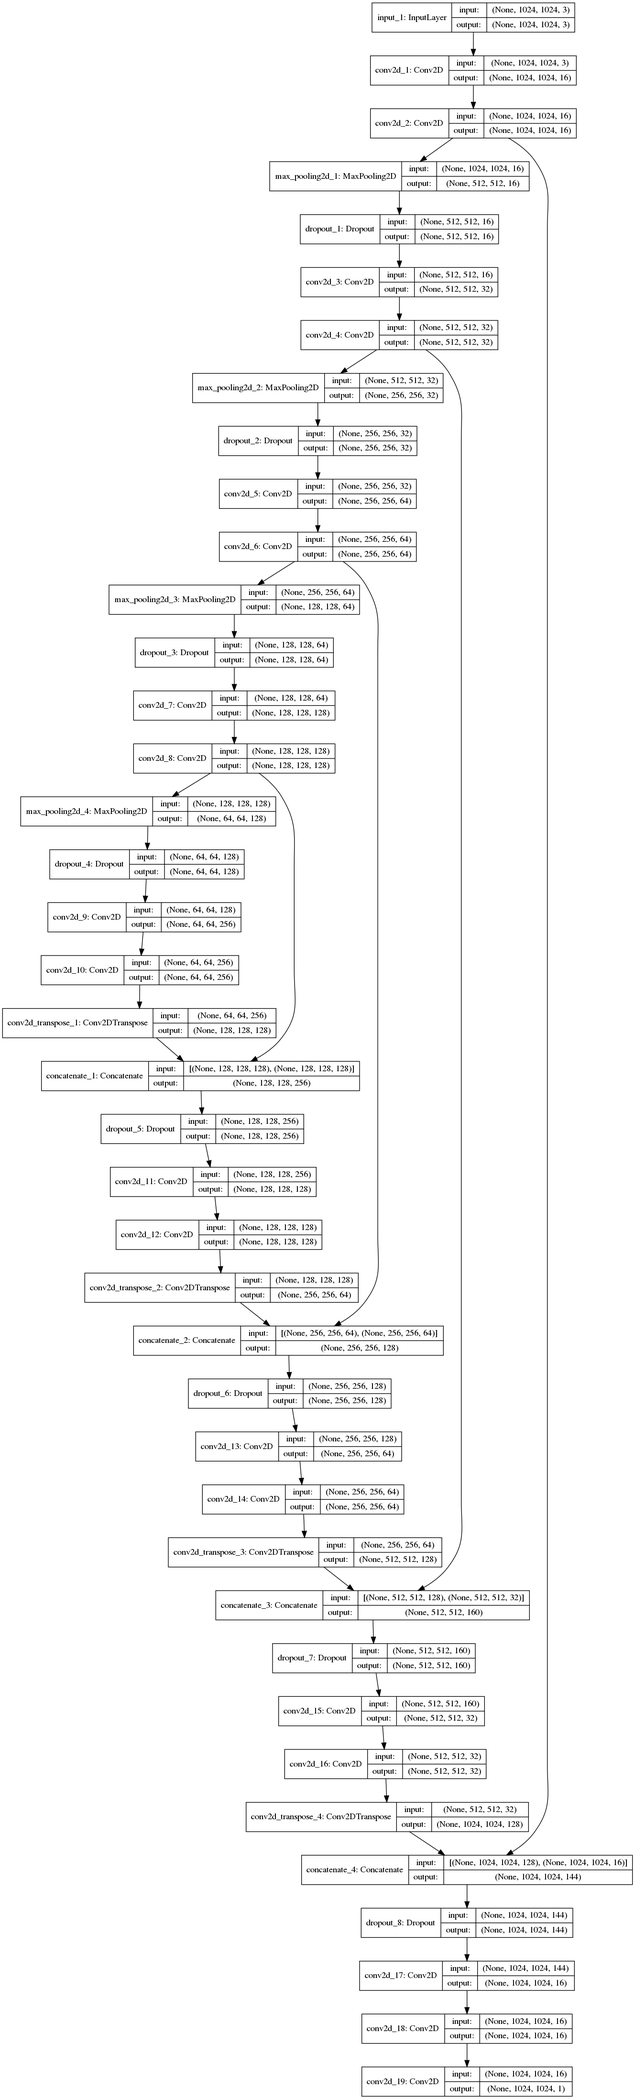
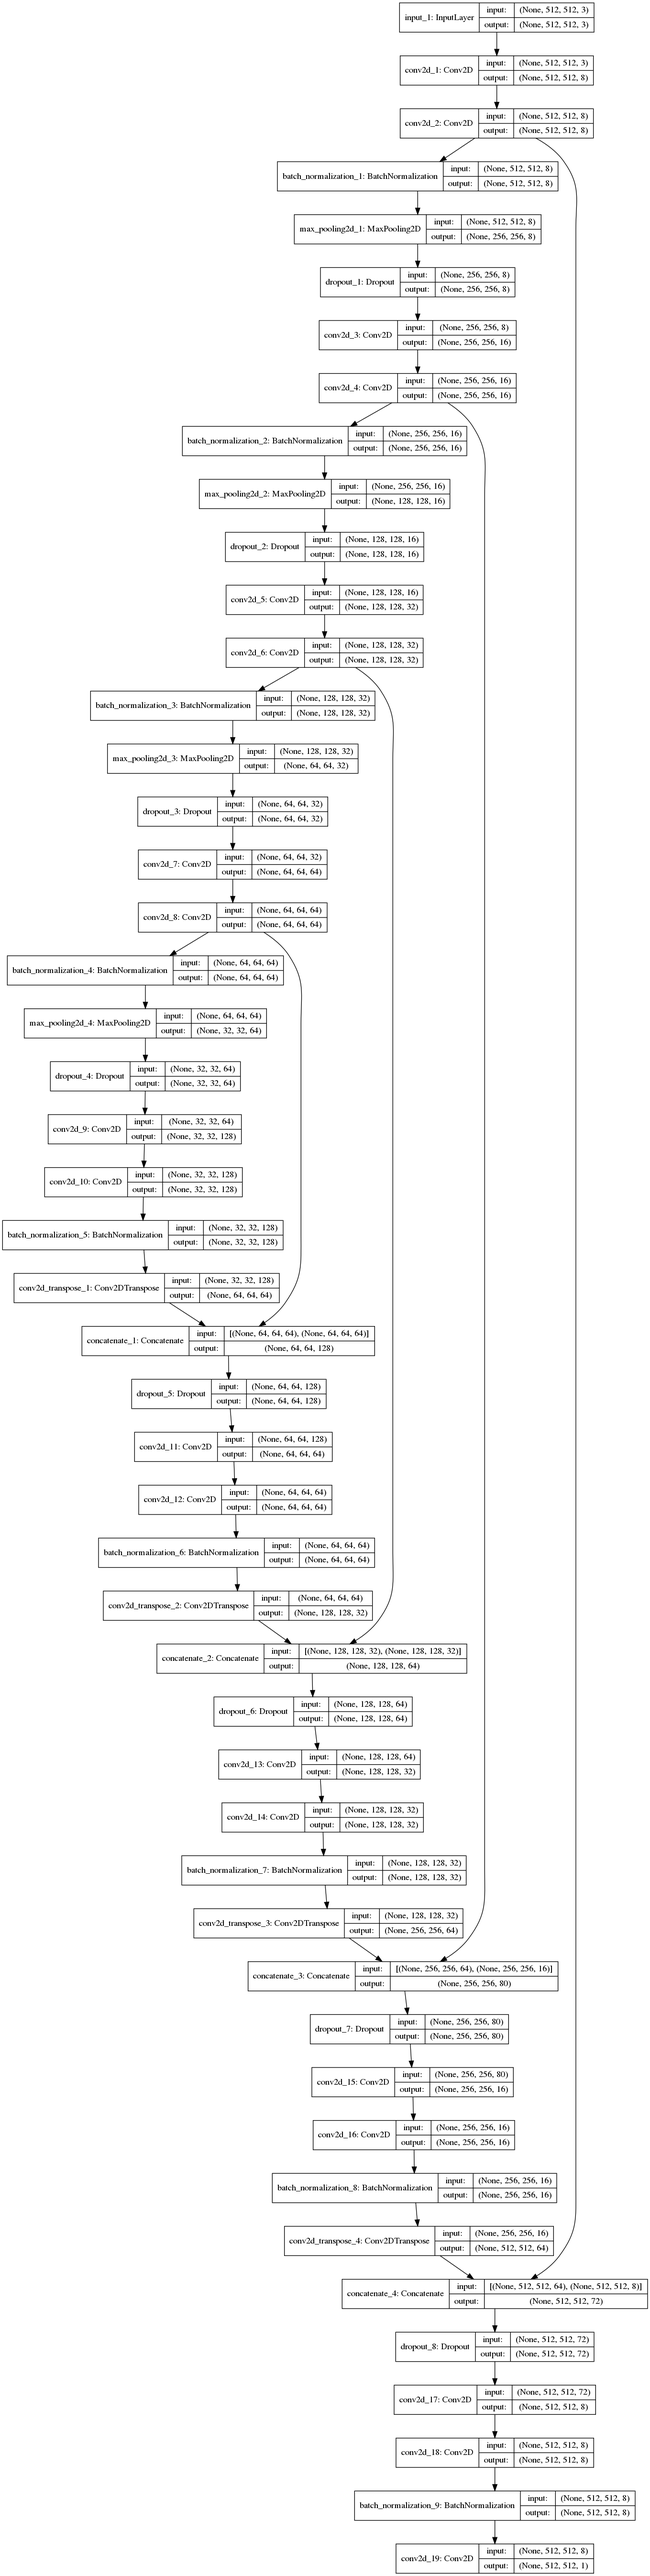
added dice and jaccard coeff

Changed region(s): [[0.0, 0.0, 1.0, 1.0]]

diff --git a/model.py b/model.py
@@ -4,21 +4,42 @@ np.random.seed(42)
 import os
 import cv2
 import pandas as pd
+from models import unet
 import tifffile as tiff
+import keras.backend as K
 from generator import generator
 import matplotlib.pyplot as plt
 from keras.optimizers import Adam
 from keras.utils import plot_model
+from keras.models import load_model
 from utils import get_rgb_img, get_mask
-from keras.models import load_model, Model
+from keras.losses import binary_crossentropy
 from keras.callbacks import TensorBoard, ModelCheckpoint
-from keras.layers import BatchNormalization, Dropout, Concatenate
-from keras.layers import Conv2D, MaxPool2D, Input, Conv2DTranspose, Add
 
 def get_epoch_len(lbl, polygon_path):
     df = pd.read_csv(polygon_path)
     df = df[df['ClassType'] == lbl]
     return len(df)
+
+def jaccard_coef(y_true, y_pred, epsilon = 1e-6):
+    axes = tuple(range(1, len(y_pred.shape)-1))
+
+    num = K.sum(y_pred * y_true, axes)
+    denum = K.sum(y_true + y_pred - y_pred * y_true)
+
+    return K.mean(num / (denum + epsilon))
+
+def dice_coef(y_true, y_pred, epsilon = 1e-6):
+    axes = tuple(range(1, len(y_pred.shape)-1))
+
+    num = 2. * K.sum(y_pred * y_true, axes)
+    denum = K.sum(K.square(y_pred) + K.square(y_true), axes)
+
+    return 1 - K.mean(num / (denum + epsilon))
+
+def loss(y_true, y_pred):
+    #return binary_crossentropy(y_true, y_pred) - K.log(jaccard_coef(y_true, y_pred))
+    return dice_coef(y_true, y_pred) + binary_crossentropy(y_true, y_pred)
 
 class network:
     def __init__(self, model_path = None, input_shape = 1024):
@@ -28,64 +49,10 @@ class network:
         if model_path == None:
             self.model = self.create_model()
         else:
-            self.model = load_model(model_path)
+            self.model = load_model(model_path, custom_objects = {'dice_coef' : dice_coef, 'loss' : loss , 'jaccard_coef' : jaccard_coef})
 
     def create_model(self):
-
-        input = Input(shape = self.input_shape)
-        filters = 16
-        #encoder
-        conv_1 = Conv2D(filters, (3, 3), padding = 'same', activation = 'relu')(input)
-        conv_2 = Conv2D(filters, (3, 3), padding = 'same', activation = 'relu')(conv_1)
-        pool_1 = MaxPool2D((2, 2))(conv_2)
-        drop_1 = Dropout(0.5)(pool_1)
-
-        conv_3 = Conv2D(filters * 2, (3, 3), padding = 'same', activation = 'relu')(drop_1)
-        conv_4 = Conv2D(filters * 2, (3, 3), padding = 'same', activation = 'relu')(conv_3)
-        pool_2 = MaxPool2D((2, 2))(conv_4)
-        drop_2 = Dropout(0.5)(pool_2)
-
-        conv_5 = Conv2D(filters * 4, (3, 3), padding = 'same', activation = 'relu')(drop_2)
-        conv_6 = Conv2D(filters * 4, (3, 3), padding = 'same', activation = 'relu')(conv_5)
-        pool_3 = MaxPool2D((2, 2))(conv_6)
-        drop_3 = Dropout(0.5)(pool_3)
-
-        conv_7 = Conv2D(filters * 8, (3, 3), padding = 'same', activation = 'relu')(drop_3)
-        conv_8 = Conv2D(filters * 8, (3, 3), padding = 'same', activation = 'relu')(conv_7)
-        pool_4 = MaxPool2D((2, 2))(conv_8)
-        drop_4 = Dropout(0.5)(pool_4)
-
-        #bridge
-        conv_b1 = Conv2D(filters * 16, (3, 3), padding = 'same', activation = 'relu')(drop_4)
-        conv_b2 = Conv2D(filters * 16, (3, 3), padding = 'same', activation = 'relu')(conv_b1)
-
-        #decoder
-        upsm_1 = Conv2DTranspose(filters * 8, (3, 3), strides = (2, 2), padding = 'same')(conv_b2)
-        concat_3 = Concatenate()([upsm_1, conv_8])
-        drop_5 = Dropout(0.5)(concat_3)
-        conv_9 = Conv2D(filters * 8, (3, 3), padding = 'same', activation = 'relu')(drop_5)
-        conv_10 = Conv2D(filters * 8, (3, 3), padding = 'same', activation = 'relu')(conv_9)
-
-        upsm_2 = Conv2DTranspose(filters * 4, (3, 3), strides = (2, 2), padding = 'same')(conv_10)
-        concat_4 = Concatenate()([upsm_2, conv_6])
-        drop_6 = Dropout(0.5)(concat_4)
-        conv_11 = Conv2D(filters * 4, (3, 3), padding = 'same', activation = 'relu')(drop_6)
-        conv_12 = Conv2D(filters * 4, (3, 3), padding = 'same', activation = 'relu')(conv_11)
-
-        upsm_3 = Conv2DTranspose(filters * 8, (3, 3), strides = (2, 2), padding = 'same')(conv_12)
-        concat_5 = Concatenate()([upsm_3, conv_4])
-        drop_7 = Dropout(0.5)(concat_5)
-        conv_13 = Conv2D(filters * 2, (3, 3), padding = 'same', activation = 'relu')(drop_7)
-        conv_14 = Conv2D(filters * 2, (3, 3), padding = 'same', activation = 'relu')(conv_13)
-
-        upsm_4 = Conv2DTranspose(filters * 8, (3, 3), strides = (2, 2), padding = 'same')(conv_14)
-        concat_6 = Concatenate()([upsm_4, conv_2])
-        drop_8 = Dropout(0.5)(concat_6)
-        conv_15 = Conv2D(filters * 1, (3, 3), padding = 'same', activation = 'relu')(drop_8)
-        conv_16 = Conv2D(filters * 1, (3, 3), padding = 'same', activation = 'relu')(conv_15)
-        output = Conv2D(1, (1, 1), padding = 'same', activation = 'sigmoid')(conv_16)
-
-        net = Model(input, output)
+        net = unet.get_model(self.input_shape)
         net.summary()
         plot_model(net, 'model.png', show_shapes = True)
 
@@ -95,7 +62,7 @@ class network:
 
         train_gen = generator(lbl, img_path = train_path, polygon_path = polygon_path, scaler_path = scaler_path, bs = int(bs), input_shape = self.input_shape)
 
-        self.model.compile(loss = 'binary_crossentropy', optimizer = Adam(lr = lr, decay = lr // epochs), metrics = ['mae'])
+        self.model.compile(loss = dice_coef, optimizer = Adam(lr = lr, decay = lr // epochs), metrics = ['binary_crossentropy', dice_coef, jaccard_coef])
         #self.model.compile(loss = 'mae', optimizer = 'adadelta', metrics = ['mse'])
         #self.model.compile(loss = 'mae', optimizer = RAdam(), metrics = ['mse'])
 

diff --git a/models/unet.py b/models/unet.py
@@ -1,0 +1,70 @@
+from keras.models import Model
+from keras.layers import BatchNormalization, Dropout, Concatenate
+from keras.layers import Conv2D, MaxPool2D, Input, Conv2DTranspose, Add
+
+def get_model(input_shape):
+    input = Input(shape = input_shape)
+    filters = 8
+    #encoder
+    conv_1 = Conv2D(filters, (3, 3), padding = 'same', activation = 'relu')(input)
+    conv_2 = Conv2D(filters, (3, 3), padding = 'same', activation = 'relu')(conv_1)
+    BN1 = BatchNormalization()(conv_2)
+    pool_1 = MaxPool2D((2, 2))(BN1)
+    drop_1 = Dropout(0.25)(pool_1)
+
+    conv_3 = Conv2D(filters * 2, (3, 3), padding = 'same', activation = 'relu')(drop_1)
+    conv_4 = Conv2D(filters * 2, (3, 3), padding = 'same', activation = 'relu')(conv_3)
+    BN2 = BatchNormalization()(conv_4)
+    pool_2 = MaxPool2D((2, 2))(BN2)
+    drop_2 = Dropout(0.25)(pool_2)
+
+    conv_5 = Conv2D(filters * 4, (3, 3), padding = 'same', activation = 'relu')(drop_2)
+    conv_6 = Conv2D(filters * 4, (3, 3), padding = 'same', activation = 'relu')(conv_5)
+    BN3 = BatchNormalization()(conv_6)
+    pool_3 = MaxPool2D((2, 2))(BN3)
+    drop_3 = Dropout(0.25)(pool_3)
+
+    conv_7 = Conv2D(filters * 8, (3, 3), padding = 'same', activation = 'relu')(drop_3)
+    conv_8 = Conv2D(filters * 8, (3, 3), padding = 'same', activation = 'relu')(conv_7)
+    BN4 = BatchNormalization()(conv_8)
+    pool_4 = MaxPool2D((2, 2))(BN4)
+    drop_4 = Dropout(0.25)(pool_4)
+
+    #bridge
+    conv_b1 = Conv2D(filters * 16, (3, 3), padding = 'same', activation = 'relu')(drop_4)
+    conv_b2 = Conv2D(filters * 16, (3, 3), padding = 'same', activation = 'relu')(conv_b1)
+    BN5 = BatchNormalization()(conv_b2)
+
+    #decoder
+    upsm_1 = Conv2DTranspose(filters * 8, (3, 3), strides = (2, 2), padding = 'same')(BN5)
+    concat_3 = Concatenate()([upsm_1, conv_8])
+    drop_5 = Dropout(0.5)(concat_3)
+    conv_9 = Conv2D(filters * 8, (3, 3), padding = 'same', activation = 'relu')(drop_5)
+    conv_10 = Conv2D(filters * 8, (3, 3), padding = 'same', activation = 'relu')(conv_9)
+    BN6 = BatchNormalization()(conv_10)
+
+    upsm_2 = Conv2DTranspose(filters * 4, (3, 3), strides = (2, 2), padding = 'same')(BN6)
+    concat_4 = Concatenate()([upsm_2, conv_6])
+    drop_6 = Dropout(0.5)(concat_4)
+    conv_11 = Conv2D(filters * 4, (3, 3), padding = 'same', activation = 'relu')(drop_6)
+    conv_12 = Conv2D(filters * 4, (3, 3), padding = 'same', activation = 'relu')(conv_11)
+    BN7 = BatchNormalization()(conv_12)
+
+    upsm_3 = Conv2DTranspose(filters * 8, (3, 3), strides = (2, 2), padding = 'same')(BN7)
+    concat_5 = Concatenate()([upsm_3, conv_4])
+    drop_7 = Dropout(0.5)(concat_5)
+    conv_13 = Conv2D(filters * 2, (3, 3), padding = 'same', activation = 'relu')(drop_7)
+    conv_14 = Conv2D(filters * 2, (3, 3), padding = 'same', activation = 'relu')(conv_13)
+    BN8 = BatchNormalization()(conv_14)
+
+    upsm_4 = Conv2DTranspose(filters * 8, (3, 3), strides = (2, 2), padding = 'same')(BN8)
+    concat_6 = Concatenate()([upsm_4, conv_2])
+    drop_8 = Dropout(0.5)(concat_6)
+    conv_15 = Conv2D(filters * 1, (3, 3), padding = 'same', activation = 'relu')(drop_8)
+    conv_16 = Conv2D(filters * 1, (3, 3), padding = 'same', activation = 'relu')(conv_15)
+    BN9 = BatchNormalization()(conv_16)
+
+    output = Conv2D(1, (1, 1), padding = 'same', activation = 'sigmoid')(BN9)
+
+    net = Model(input, output)
+    return net

diff --git a/op_to_poly.py b/op_to_poly.py
@@ -1,0 +1,44 @@
+import cv2
+import numpy as np
+from collections import defaultdict
+from shapely.geometry import MultiPolygon, Polygon
+
+def poly_from_mask(mask, epsilon = 10.0, min_area = 10.0):
+
+    contours, hierarchy = cv2.findContours(((mask == 1) * 255).astype(np.uint8), cv2.RETR_CCOMP, cv2.CHAIN_APPROX_TC89_KCOS)
+    approx_contours = [cv2.approxPolyDP(cnt, epsilon, True) for cnt in contours]
+
+    if not contours:
+        return MultiPolygon()
+
+    cnt_children = defaultdict(list)
+    child_contours = set()
+    assert hierarchy.shape[0] == 1
+
+    for idx, (_, _, _, parent_idx) in enumerate(hierarchy[0]):
+        if parent_idx != -1:
+            child_contours.add(idx)
+            cnt_children[parent_idx].append(approx_contours[idx])
+
+    all_polygons = []
+    for idx, cnt in enumerate(approx_contours):
+        if idx not in child_contours and cv2.contourArea(cnt) >= min_area:
+            assert cnt.shape[1] == 1
+            poly = Polygon(
+                shell=cnt[:, 0, :],
+                holes=[c[:, 0, :] for c in cnt_children.get(idx, [])
+                       if cv2.contourArea(c) >= min_area])
+            all_polygons.append(poly)
+
+    all_polygons = MultiPolygon(all_polygons)
+    if not all_polygons.is_valid:
+        all_polygons = all_polygons.buffer(0)
+        if all_polygons.type == 'Polygon':
+            all_polygons = MultiPolygon([all_polygons])
+
+    print (all_polygons)
+    return all_polygons
+
+if __name__ == "__main__":
+    mask = cv2.imread("test.jpeg", 0)
+    poly_from_mask(mask)

diff --git a/generator.py b/generator.py
@@ -5,7 +5,7 @@ import numpy as np
 import pandas as pd
 import tifffile as tiff
 from labels import labels
-from utils import stretch_8bit, get_mask
+from utils import get_mask, get_rgb_img
 
 def generator(lbl, img_path = 'dataset/sixteen_band', scaler_path = 'dataset/grid_sizes.csv', polygon_path = 'dataset/train_wkt_v4.csv', bs = 16, input_shape = (512, 512, 3),):
     df_grid = pd.read_csv(scaler_path)
@@ -21,12 +21,7 @@ def generator(lbl, img_path = 'dataset/sixteen_band', scaler_path = 'dataset/gri
             img = tiff.imread(img_path + '_M.tif').transpose(1, 2, 0)
             mask = get_mask(df_grid, df_poly, img_path, img.shape, lbl)
 
-            img_rgb = np.zeros((img.shape[0], img.shape[1], 3))
-
-            img_rgb[:, :, 0] = img[:, :, 1] #blue
-            img_rgb[:, :, 1] = img[:, :, 2] #green
-            img_rgb[:, :, 2] = img[:, :, 4] #red
-            img_rgb = stretch_8bit(img_rgb)
+            img_rgb = get_rgb_img(img)
 
             img_rgb = cv2.resize(img_rgb, input_shape[:2])
             mask = cv2.resize(mask, input_shape[:2])

diff --git a/utils.py b/utils.py
@@ -2,12 +2,12 @@ import cv2
 import numpy as np
 from shapely import wkt, affinity
 
-def stretch_8bit(bands, lower_percent = 2, higher_percent = 98):
+def stretch_8bit(bands, lower_percent = 5, higher_percent = 95):
     out = np.zeros_like(bands)
 
-    for i in range(3):
+    for i in range(bands.shape[2]):
         a = 0
-        b = 255
+        b = 255.0
         c = np.percentile(bands[:, :, i], lower_percent)
         d = np.percentile(bands[:, :, i], higher_percent)
         t = a + (bands[: , :, i] - c) * (b - a) / (d - c)

diff --git a/test_gen.py b/test_gen.py
@@ -5,10 +5,10 @@ import numpy as np
 import matplotlib.pyplot as plt
 
 if __name__ == "__main__":
-    gen = generator(bs = 1, input_shape = (512, 512, 3), lbl = 5)
+    gen = generator(bs = 1, input_shape = (512, 512, 3), lbl = 1)
 
     while True:
         data = next(gen)
-        cv2.imshow("img", data[0][0])
+        #cv2.imshow("img", data[0][0])
         cv2.imshow("mask", data[1][0] * 255.0)
         cv2.waitKey(0)
